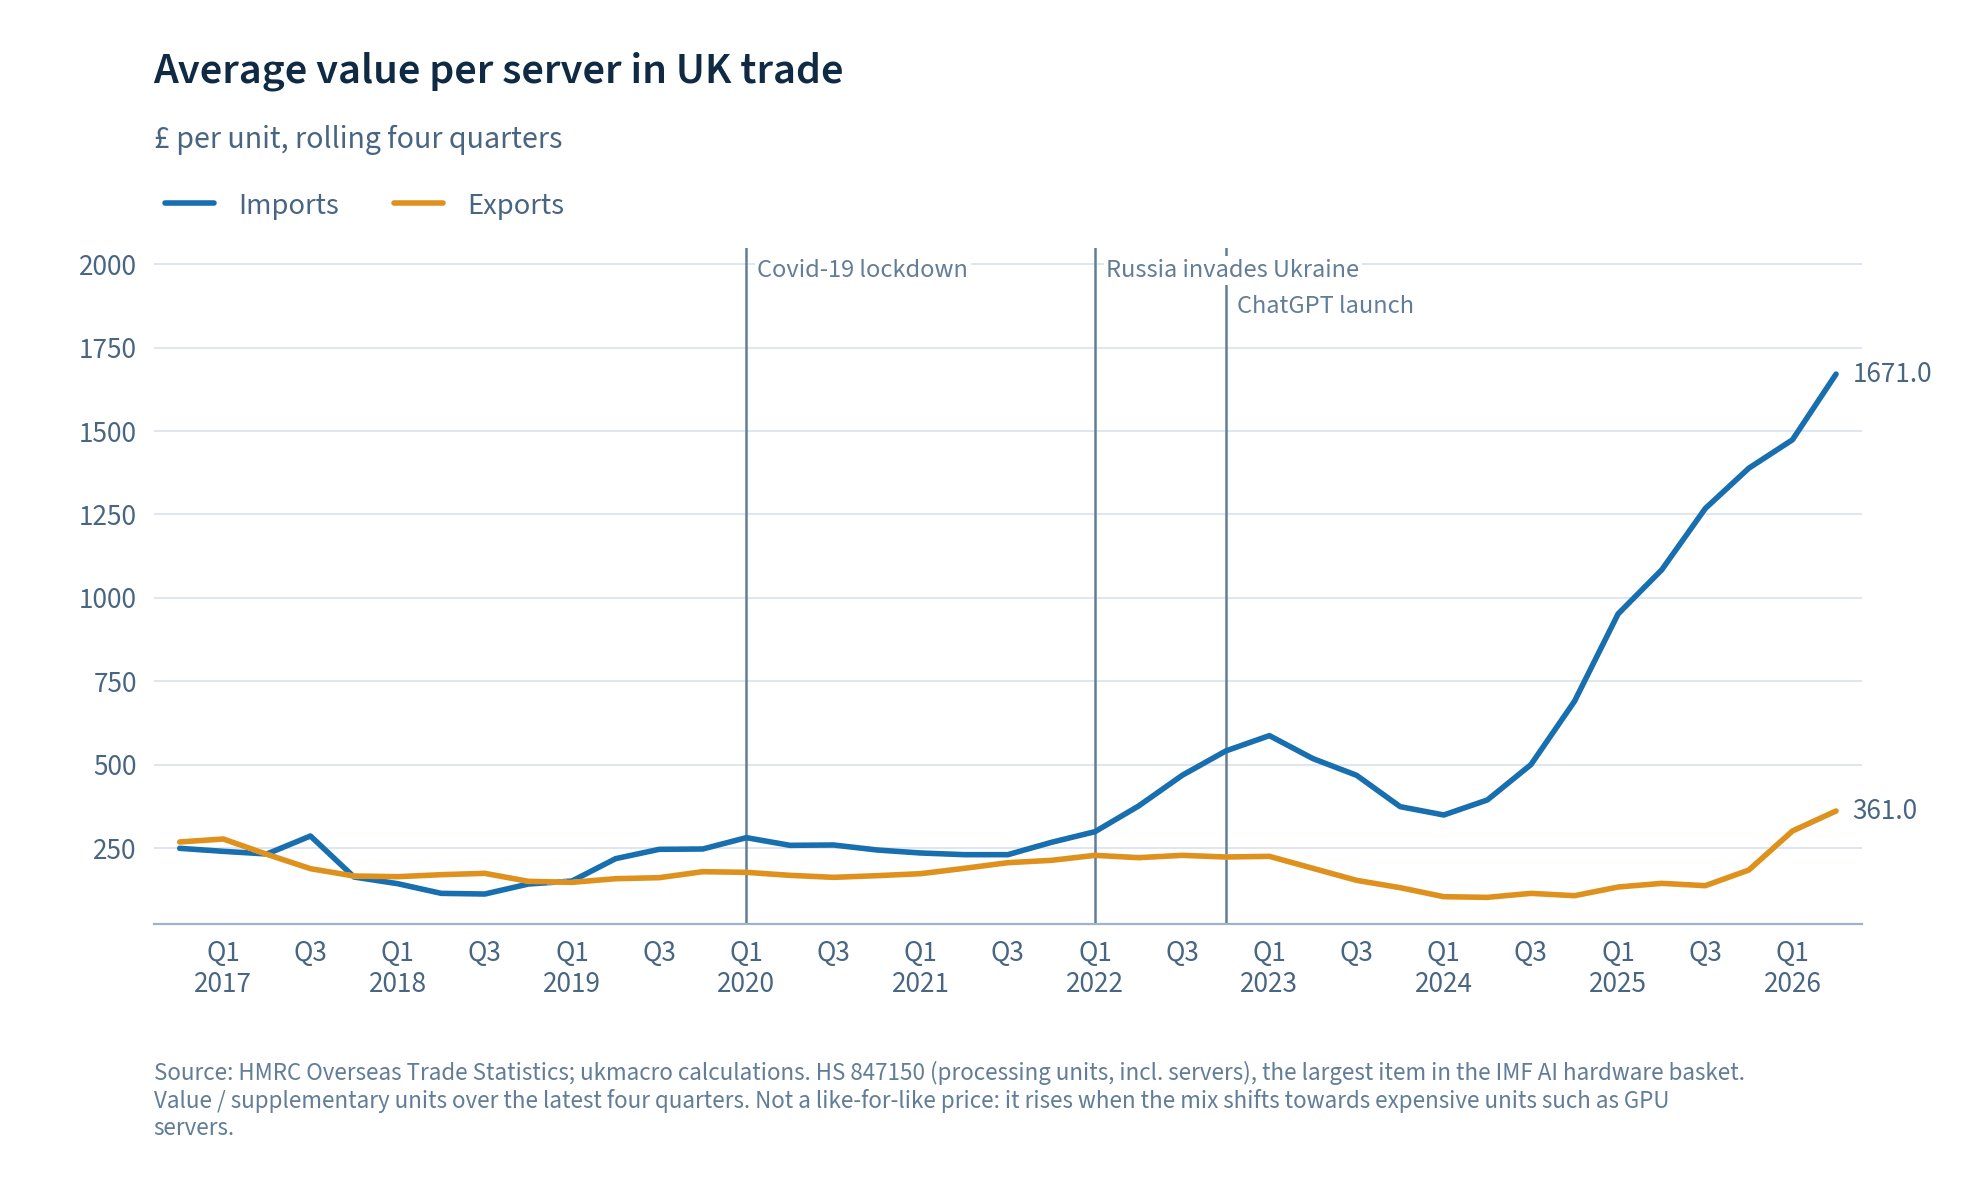
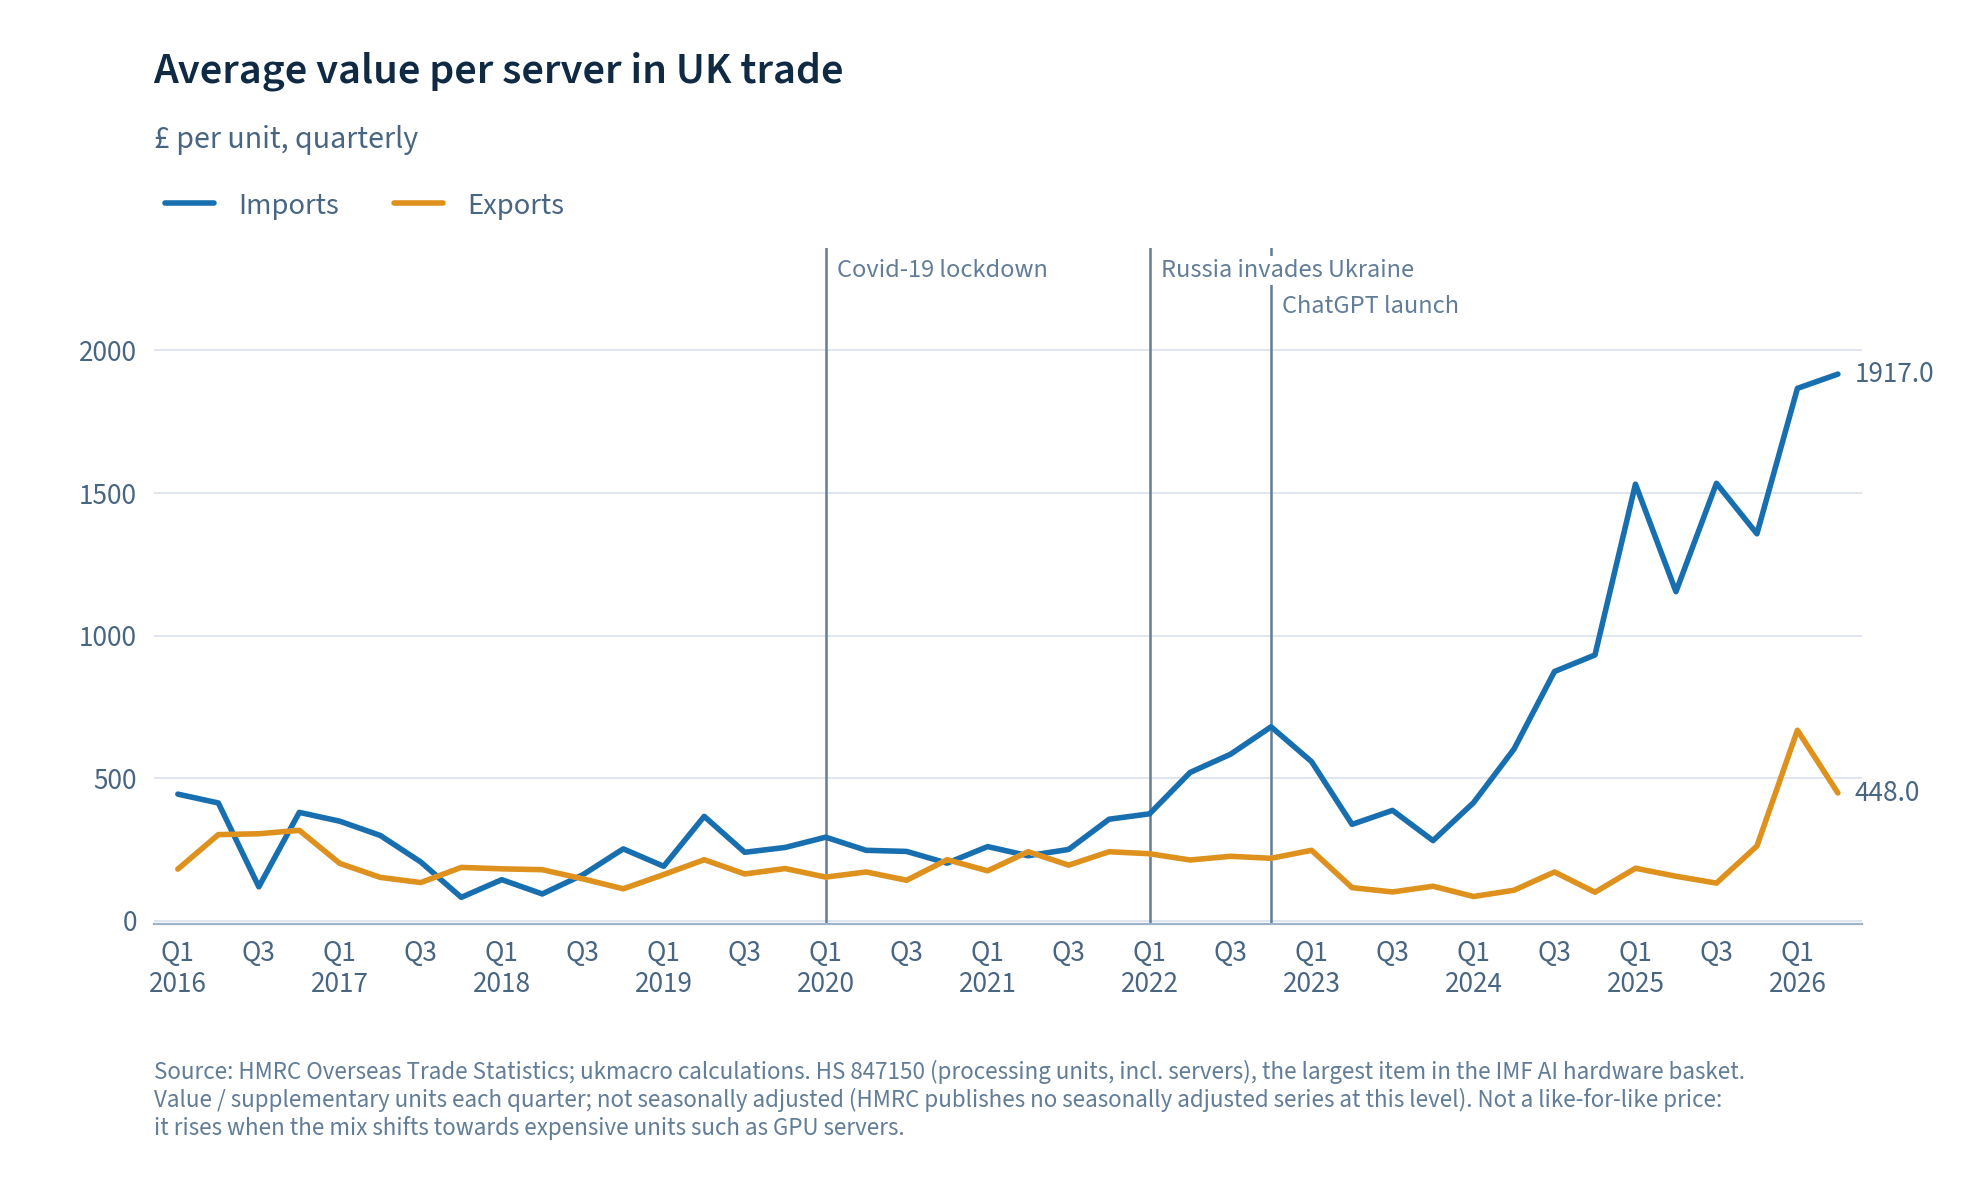
AI trade: server value per unit shown quarterly (not seasonally adjusted) instead of rolling four quarters

diff --git a/builders/trade/ai_trade.py b/builders/trade/ai_trade.py
@@ -455,22 +455,19 @@ def imf_price_charts(mq: dict, prods: list[dict]) -> list[dict]:
             a[0] += r["value_gbp_m"] * 1e6
             a[1] += r["units"] or 0
     data = {}
-    for flow in ("imports", "exports"):
-        qs = sorted(q for f, q in agg if f == flow)
-        for i in range(3, len(qs)):
-            v = sum(agg[(flow, q)][0] for q in qs[i - 3:i + 1])
-            u = sum(agg[(flow, q)][1] for q in qs[i - 3:i + 1])
-            if u:
-                data.setdefault(qs[i], {"date": qs[i]})[flow] = round(v / u)
-                rows.append({"measure": "server_value_per_unit_gbp", "item": "HS 847150", "flow": flow,
-                             "quarter": qs[i], "value": round(v / u)})
+    for (flow, q), (v, u) in sorted(agg.items(), key=lambda kv: kv[0][1]):
+        if u:
+            data.setdefault(q, {"date": q})[flow] = round(v / u)
+            rows.append({"measure": "server_value_per_unit_gbp", "item": "HS 847150", "flow": flow,
+                         "quarter": q, "value": round(v / u)})
     publish(chart("ai-trade-imf-hardware-server-unit-values",
                   "Average value per server in UK trade",
-                  "£ per unit, rolling four quarters", "line",
+                  "£ per unit, quarterly", "line",
                   [{"key": "imports", "label": "Imports"}, {"key": "exports", "label": "Exports"}],
                   [data[q] for q in sorted(data)],
                   "HS 847150 (processing units, incl. servers), the largest item in the IMF AI hardware "
-                  "basket. Value / supplementary units over the latest four quarters. Not a like-for-like "
+                  "basket. Value / supplementary units each quarter; not seasonally adjusted (HMRC publishes "
+                  "no seasonally adjusted series at this level). Not a like-for-like "
                   "price: it rises when the mix shifts towards expensive units such as GPU servers. ",
                   "HMRC Overseas Trade Statistics; ukmacro calculations"))
     return rows
